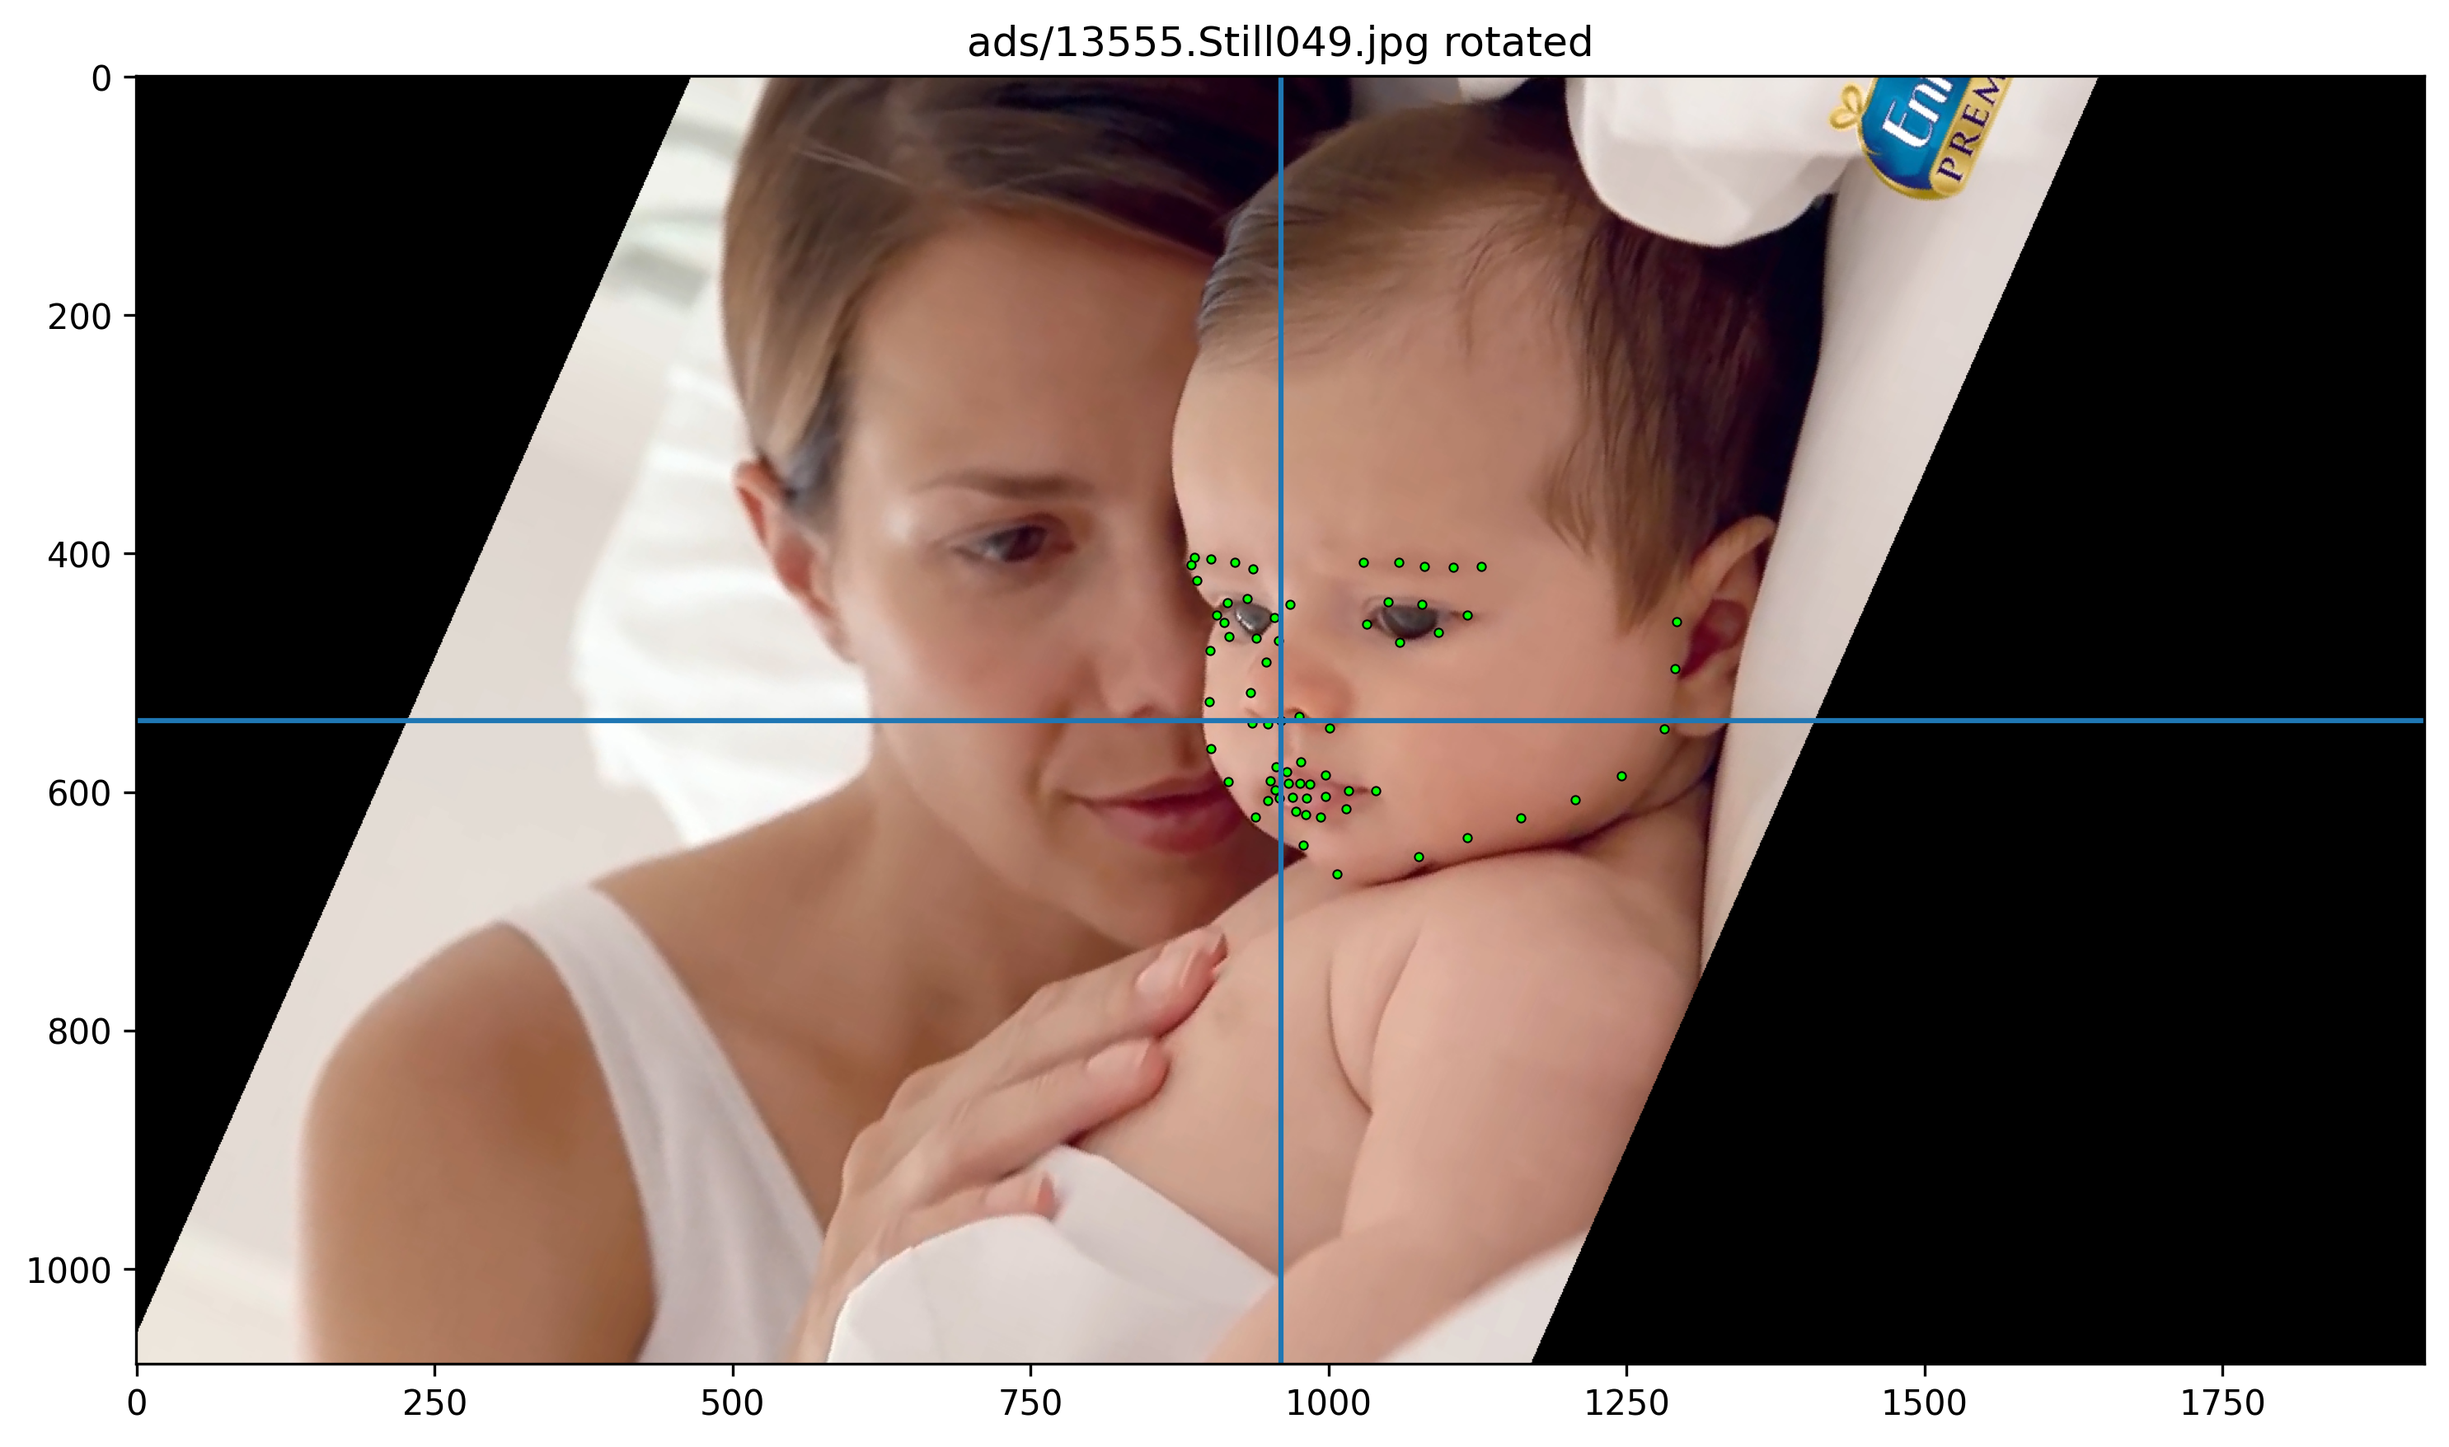
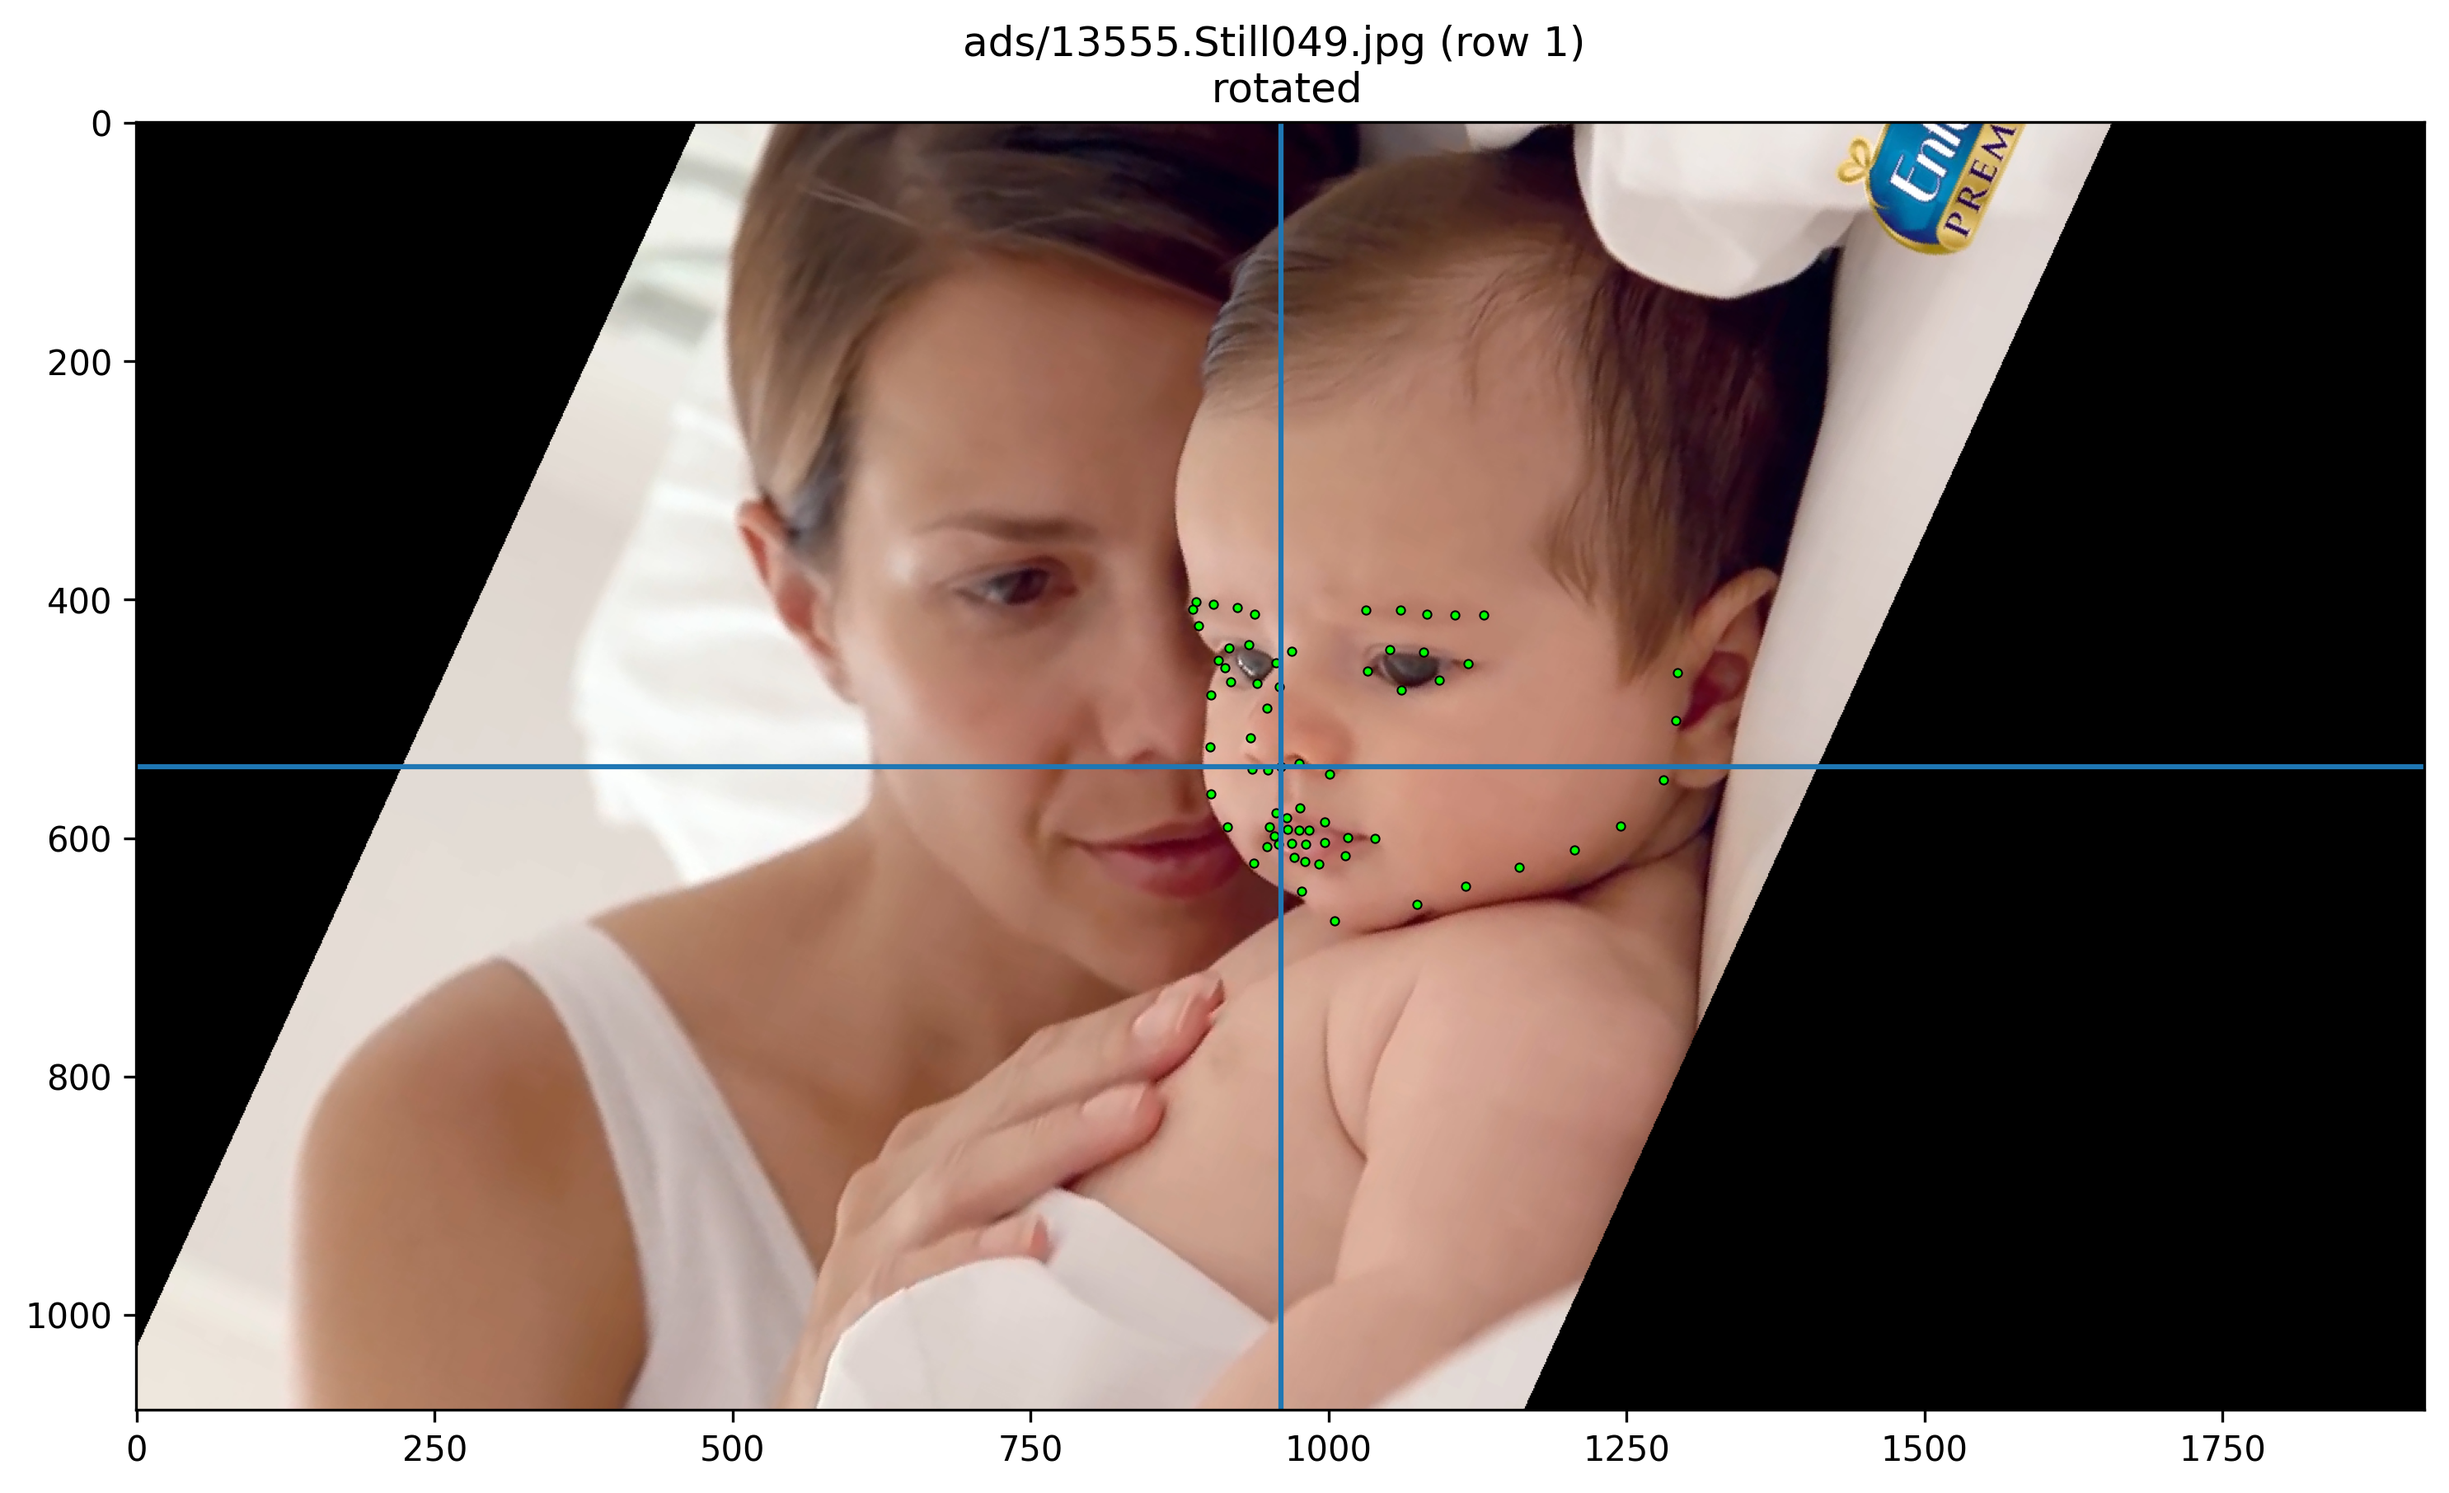
minor cleanup around documentation; added 'angle_outliers' make target

diff --git a/src/util/plot.py b/src/util/plot.py
@@ -89,7 +89,7 @@ def plot_image(
     filename = anno.filename
     desc = f' (row {anno.row_id})' if anno.row_id is not None else ''
     if len(anno.desc):
-        desc += f' ({", ".join(anno.desc)})'
+        desc = ' \n '.join([desc, *anno.desc])
     title = f'{image_set}/{filename}' + desc
     X = anno.get_x()
     Y = anno.get_y()
@@ -197,8 +197,8 @@ def plot_image(
         #       original image if we don't.
         if annotate:
             filename += f'_{annotate}'
-        if anno.desc is not None:
-            filename += f'_({"_".join(anno.desc)})'
+        if anno.desc:
+            filename += f'_{"_".join(anno.desc)}'
         plt.savefig(
             f'{path}/{filename}.png',
             dpi=300,
@@ -315,8 +315,39 @@ def scatter(
         target,
         target_name=None,
         alt_name=None,
-        savefig=False,
+        save_fig=False,
 ):
+    '''
+    This function assumes the predicted values are in the given DataFrame,
+    under a column name consisting of the target column name with a '_hat'
+    suffix (e.g. target 'baby' requires predictions are in column 'baby_hat').
+
+    Parameters
+    ----------
+    title : str
+        The plot title.
+    filename : str
+        The filename to save this plot (location is the 'figs' directory).
+    df : DataFrame
+        The data frame that holds the target, predictors and predictions.
+    pred : list of 2 column names
+        The X and Y axes of the scatter.
+    target : str
+        The column to use as target. NOTE: This also establishes the column
+        name for predicted values (e.g. target 'baby' requires prediction
+        column to be 'baby_hat').
+    target_name : str, optional
+        Override the target name in the plot legend. The default is None.
+    alt_name : str, optional
+        Override the display string for target==0 case. The default is None.
+    save_fig : bool, optional
+        Pass True to save the plot. The default is False.
+
+    Returns
+    -------
+    None.
+
+    '''
     if target_name is None:
         target_name = target
     if alt_name is None:
@@ -354,7 +385,7 @@ def scatter(
             label=case.name
         )
     ax.legend()
-    if savefig:
+    if save_fig:
         plt.savefig(
             f'figs/{filename}',
             dpi=300,

diff --git a/src/logreg_4_pred.py b/src/logreg_4_pred.py
@@ -3,6 +3,7 @@
 """
 
 import numpy as np
+import pandas as pd
 import seaborn as sns
 import matplotlib.pyplot as plt
 from numpy.random import random_sample
@@ -20,7 +21,7 @@ from util import meta_cache
 from util.plot import scatter
 from util.column_names import norm_cenrot_sym_diff, norm_cenrot_cols
 
-savefig = False
+save_fig = False
 
 df = meta_cache.get_meta()
 df['roll_x_boxratio'] = df['roll_abs'] * df['boxratio']
@@ -101,7 +102,7 @@ def eg_logreg(df, pred, target, poly=False):
     print(f'\tdummy score: {dummy_score:.3f}')
     
     df[f'{target}_hat'] = pipe.predict(X)
-    return df, pipe, score, y_test, y_hat
+    return df, pipe, score, X_test, y_test, y_hat
 
 
 # test logistic regression with random predictor
@@ -115,17 +116,20 @@ for pp in [
     # ['roll_x_boxratio', *pred_abs],
     # ['roll_x', *pred_abs]
 ]:
-    tmp, model, score, y_test, y_hat = eg_logreg(df, pp, 'baby')
+    tmp, model, score, X_test, y_test, y_hat = eg_logreg(df, pp, 'baby')
+    test_df = pd.DataFrame(X_test, columns=pp)
+    test_df[target] = y_test
+    test_df[f'{target}_hat'] = y_hat
     scatter(
         f'Logistic Regression - baby vs {", ".join(pp)} \n '
             f'score: {score:.3f}',
         f'scatter_boxratio_vs_yaw.png',
-        tmp,
+        tmp, # test_df,
         ['boxratio', 'yaw_abs'],
         target,
         target_name='Baby',
         alt_name='Adult',
-        savefig=savefig
+        save_fig=save_fig
     )
 
     target_names = ['Baby', 'Adult']
@@ -143,7 +147,7 @@ for pp in [
     plt.ylabel('predicted label')
     plt.title('Confusion Matrix for Validation Results')
     plt.tight_layout()
-    if savefig:
+    if save_fig:
         plt.savefig(
             'figs/logreg_4_pred_conf_mat.png',
             dpi=300,

diff --git a/src/util/meta_cache.py b/src/util/meta_cache.py
@@ -29,6 +29,8 @@ class MetaCache:
     ):
         self.baby_cache = baby_cache
         self.adult_cache = adult_cache
+        self.baby_meta = self.baby_cache.get_meta('decorated')
+        self.adult_meta = self.adult_cache.get_meta('decorated')
         self.meta = pd.read_csv(
             f'{data_path}/{meta_filename}',
             dtype={
@@ -98,8 +100,8 @@ class MetaCache:
                 #       we haven't resolved image retrieval for the other
                 #       dataset?
                 key = row['image_name']
-                baby_df = self.baby_cache.get_meta('decorated')
-                baby_row_id = baby_df[baby_df['image_name'] == key].index[0]
+                where_eq = self.baby_meta['image_name'] == key
+                baby_row_id = self.baby_meta[where_eq].index[0]
                 anno = self.baby_cache.get_image(baby_row_id)
                 anno.row_id = row_id
                 return anno

diff --git a/src/big_yaw.py b/src/big_yaw.py
@@ -1,0 +1,31 @@
+#!/usr/bin/env python3
+# -*- coding: utf-8 -*-
+"""
+Created on Tue Nov 29 21:51:47 2022
+
+@author: jhautala
+"""
+
+from util import meta_cache
+from util.plot import plot_image
+from util.pre import to_deg
+
+baby_df = meta_cache.get_meta('baby')
+save_fig = False
+
+tilted = baby_df['tilted'] == 1
+turned = baby_df['turned'] == 1
+unlabeled  = baby_df[~tilted & ~turned]\
+    .sort_values(by='yaw_abs', ascending=False)
+for i in range(10):
+    row = unlabeled.iloc[i]
+    row_id = unlabeled.index[i]
+    anno = meta_cache.get_image(row_id, baby=True)
+    anno.desc = [
+        f'{to_deg * row["yaw_abs"]:.2f} degrees estimated yaw',
+        'not labeled "tilted" nor "turned"',
+    ]
+    plot_image(
+        anno,
+        save_fig=save_fig,
+    )

diff --git a/src/eg_svc.py b/src/eg_svc.py
@@ -22,7 +22,7 @@ from util.plot import scatter
 pred = ['boxratio', 'interoc_norm', 'yaw_abs', 'roll_abs']
 pred_plus = ['image_name', *pred, 'baby']
 pcs = [f'pc{i}' for i in range(1, 5)]
-savefig = False
+save_fig = False
 fewer_plots = True
 
 
@@ -71,7 +71,7 @@ for i in range(1, 5):
             'baby',
             target_name='Baby',
             alt_name='Adult',
-            savefig=savefig,
+            save_fig=save_fig,
         )
 
 # ----- review the actual components
@@ -98,5 +98,5 @@ for i in range(4):
             'baby',
             target_name='Baby',
             alt_name='Adult',
-            savefig=savefig,
+            save_fig=save_fig,
         )

diff --git a/src/prelim_plots.py b/src/prelim_plots.py
@@ -10,8 +10,6 @@ from util import meta_cache
 from util.plot import plot_image
 from util.pre import rotate
 
-df = meta_cache.get_meta()
-baby_df = meta_cache.get_meta('baby')
 save_fig = False
 
 anno_img = meta_cache.get_image(4, baby=True)
@@ -31,4 +29,5 @@ for (row_id, annotate) in [
         rotate(meta_cache.get_image(row_id, baby=True)),
         annotate=annotate,
         cross=True,
+        save_fig=save_fig,
     )

diff --git a/src/util/pre.py b/src/util/pre.py
@@ -246,7 +246,8 @@ def rotate(anno):
     _, _, _, _, coords = get_yaw_data(anno)
 
     # add 'rotated' to the image description
-    desc = anno.desc.copy().append('rotated')
+    desc = anno.desc.copy()
+    desc.append('rotated')
     return AnnoImg(
         anno.image_set,
         anno.filename,

diff --git a/preprocessing.md b/preprocessing.md
@@ -144,7 +144,7 @@ make angles_logreg
 
 There are a few outliers, but they seem to be caused by inconsistent labeling or different ways of interpreting ~90 degree rotations. For example, the face with the maximum absolute yaw score among images labeled neither "tilted" nor "turned" is clearly not upright, presumably "tilted":
 
-<img src="figs/images/youtube2/045.jpg_big yaw.png" width=600>
+<img src="figs/images/youtube2/045.jpg_(big_yaw).png" width=600>
 
 To plot the first 10 such outliers, you can use this `Makefile` target:
 ```
